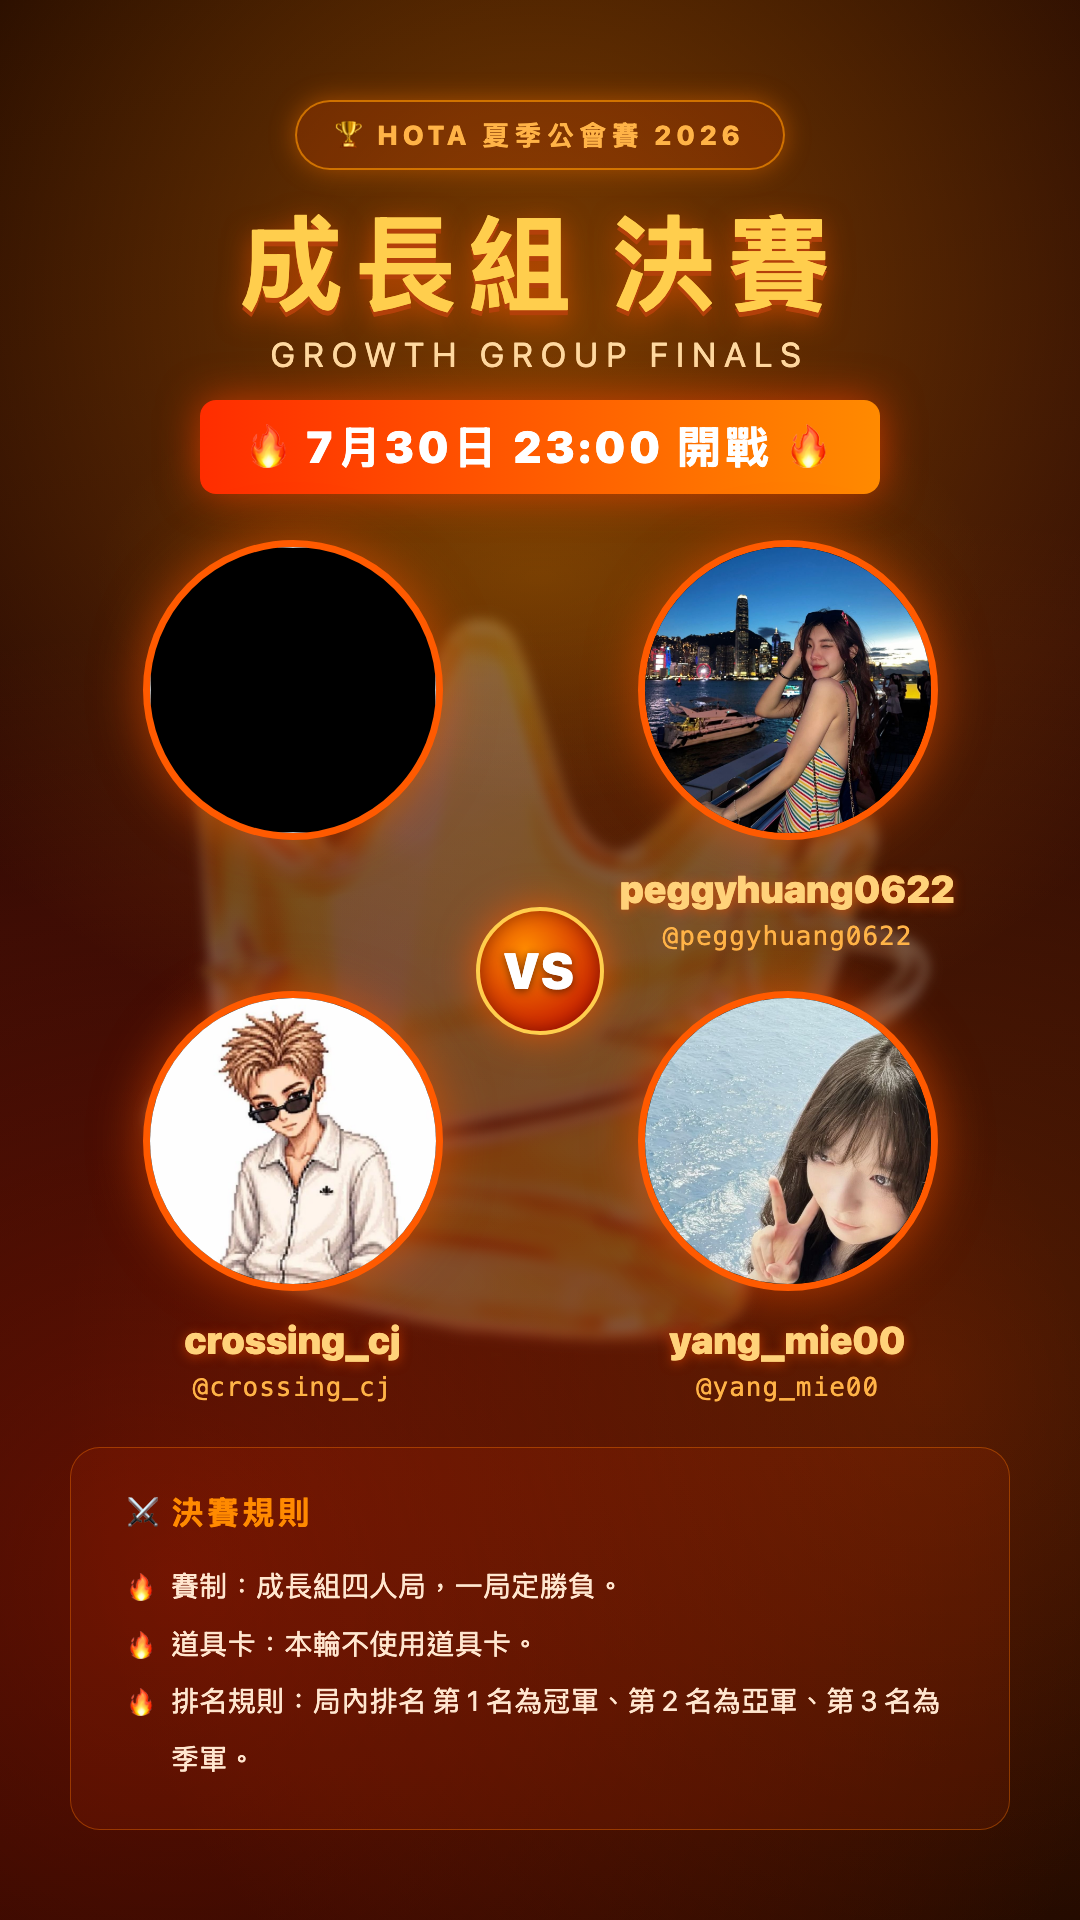
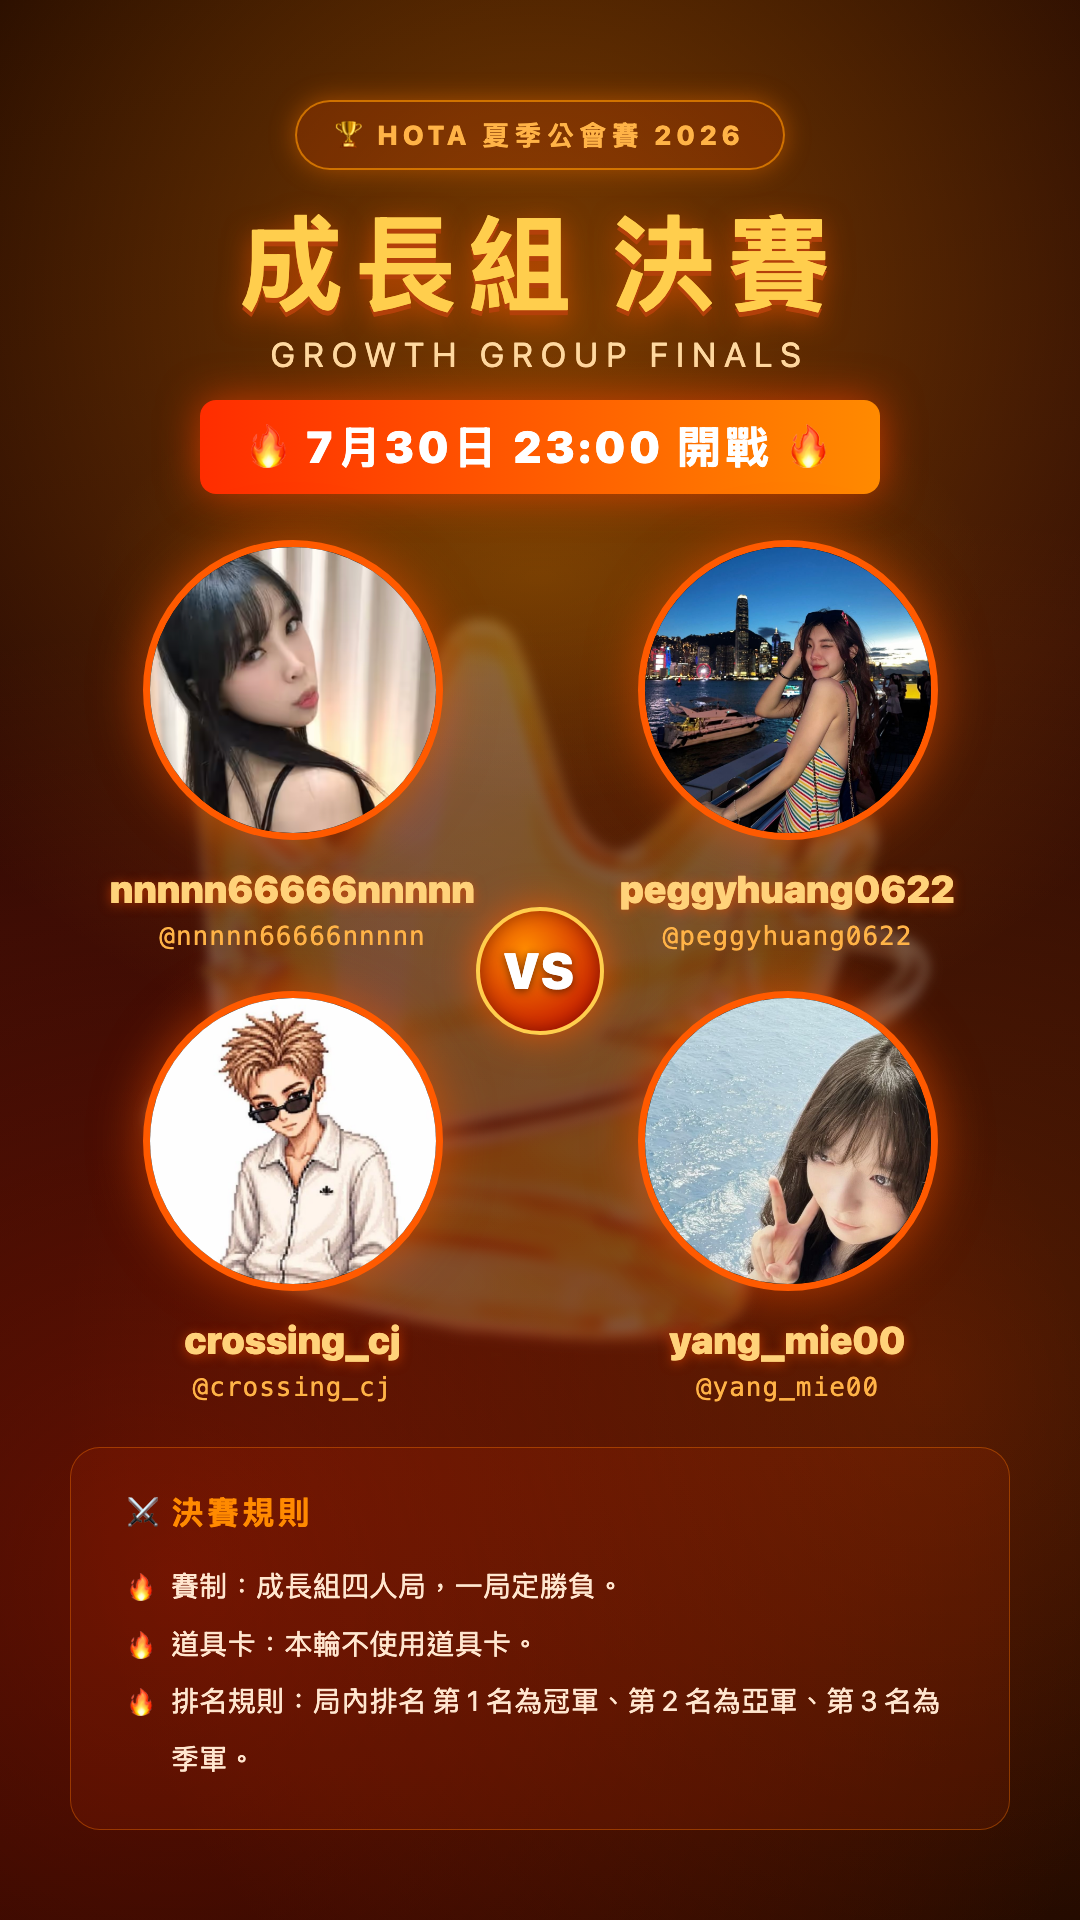
修復成長組海報：補上 nnnnn66666nnnnn 的 PLAYERS 映射，頭像正常顯示

Changed region(s): [[0.0917, 0.2812, 0.4583, 0.5]]

diff --git a/growth_poster.html b/growth_poster.html
@@ -159,7 +159,7 @@ h1 {
 
 <script>
 const PLAYERS = {
-  a7a7a268:      { name: 'a7a7a268',      img: 'assets/a7a7a268.png' },
+  nnnnn66666nnnnn:{ name: 'nnnnn66666nnnnn',img: 'assets/nnnnn66666nnnnn.png' },
   peggyhuang0622:{ name: 'peggyhuang0622',img: 'assets/peggyhuang0622.jpg' },
   crossing_cj:   { name: 'crossing_cj',   img: 'assets/crossing_cj.png' },
   yang_mie00:    { name: 'yang_mie00',    img: 'assets/yang_mie00.jpg' }
